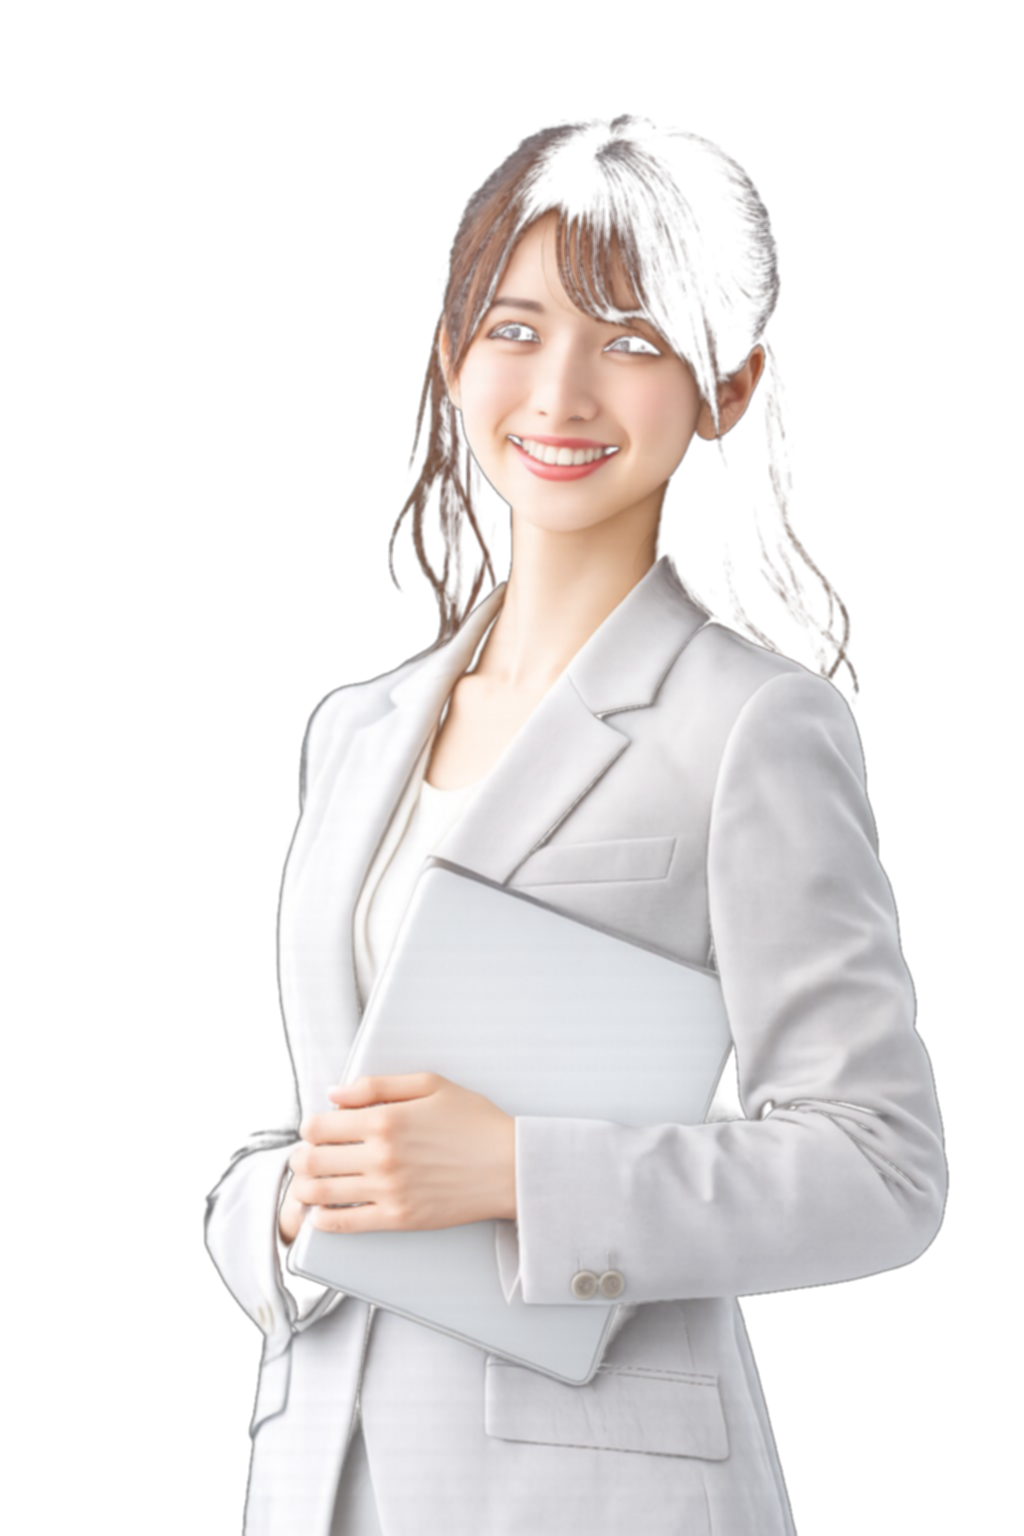
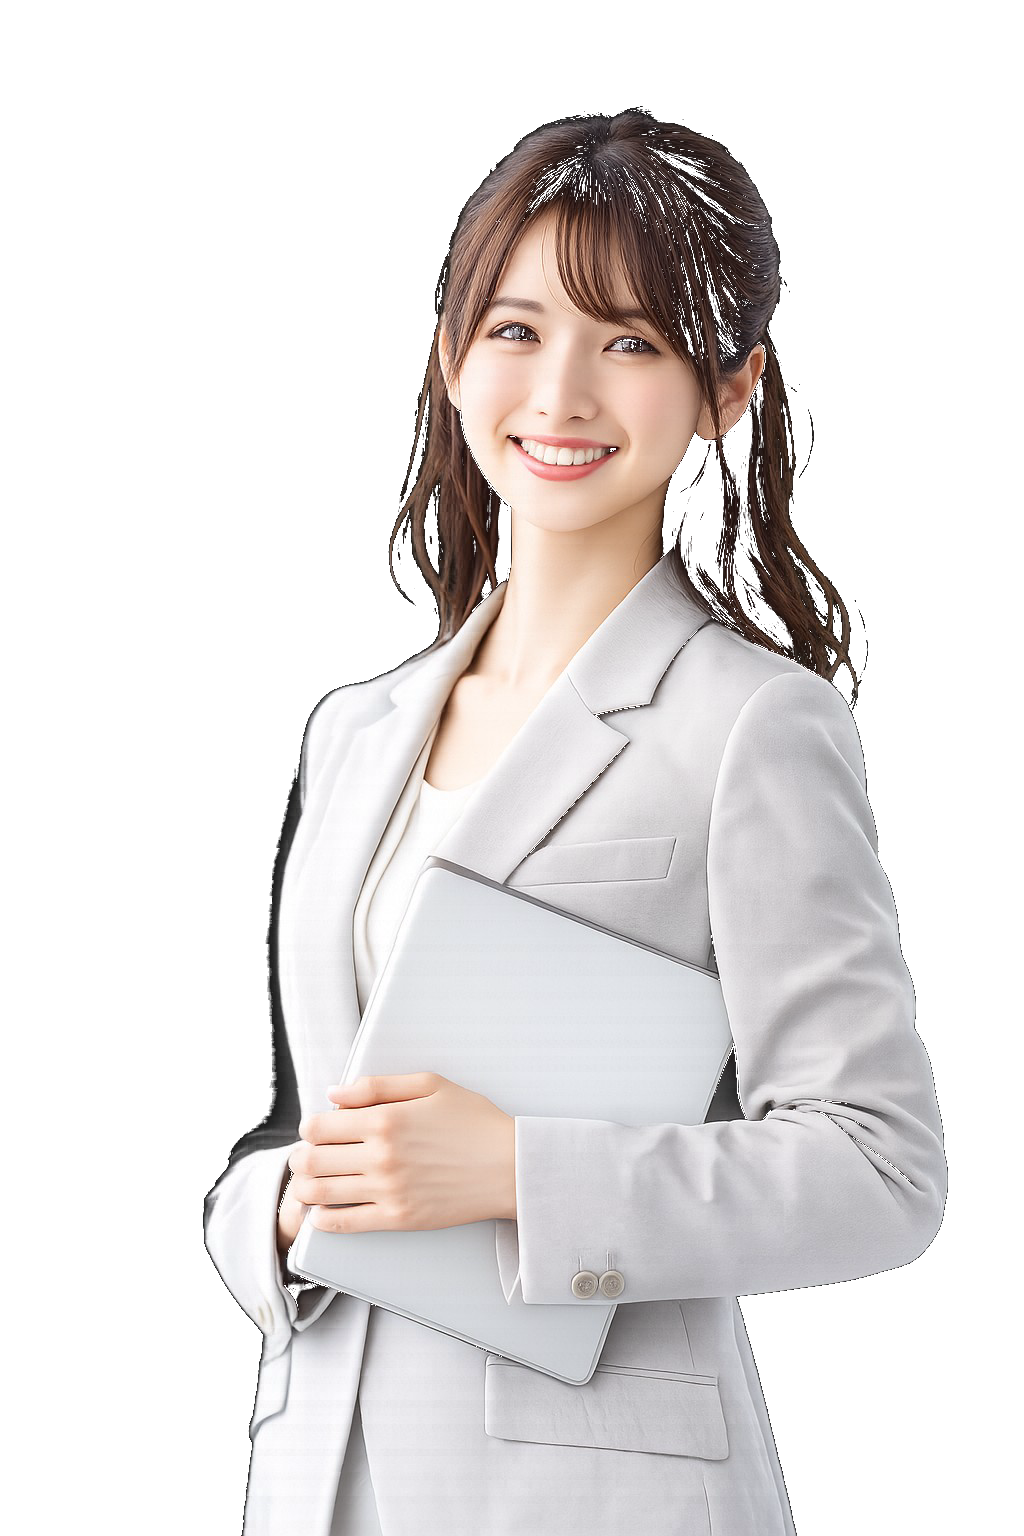
fix: bg removal threshold=22 (keep face intact) + mobile woman fully opaque, pushed right edge

diff --git a/app/lp.css b/app/lp.css
@@ -675,30 +675,30 @@ h2.section-title { font-size: 36px; font-weight: 900; letter-spacing: -.01em; li
   /* スマホでは女性をテキストの背景に薄く配置（ダッシュボードは隠す） */
   .hero-right { display: none; }
   .hero-left { position: relative; z-index: 2; }
-  /* 女性を hero-layout 全体の右側背景として絶対配置 */
+  /* 女性は右端に押し出し、テキストに被らない位置で完全不透明表示 */
   .hero-layout::before {
     content: "";
     position: absolute;
-    right: -15%;
+    right: -40%;
     top: 50%;
     transform: translateY(-50%);
     width: 75%;
     height: 100%;
     background: url('/hero-woman.png') no-repeat center right / contain;
-    opacity: 0.65;
+    opacity: 1;
     z-index: 0;
     pointer-events: none;
   }
-  /* テキストを見やすくするための薄い白フェード（女性の上に重ねる） */
+  /* テキストの読みやすさ確保: 白からのフェード（女性の頭〜上半身の前を半透明白に） */
   .hero-layout::after {
     content: "";
     position: absolute;
     inset: 0;
-    background: linear-gradient(90deg, rgba(255,255,255,0.85) 0%, rgba(255,255,255,0.5) 40%, rgba(255,255,255,0) 70%);
+    background: linear-gradient(90deg, var(--hero-bg, #eff6ff) 0%, var(--hero-bg, #eff6ff) 35%, rgba(239,246,254,0.95) 50%, rgba(239,246,254,0.6) 70%, rgba(239,246,254,0) 100%);
     z-index: 1;
     pointer-events: none;
   }
-  .hero-left { z-index: 2 !important; }
+  .hero-left { z-index: 2 !important; position: relative; }
   .why-split { grid-template-columns: 1fr; gap: 32px; }
   .why-left { position: static; }
   .why-mobile-img { display: none; }
@@ -745,9 +745,9 @@ h2.section-title { font-size: 36px; font-weight: 900; letter-spacing: -.01em; li
   .hero-sub { font-size: 13.5px; }
   .hero-feats { flex-direction: column; gap: 8px; }
   .hero-layout::before {
-    opacity: 0.55;
-    right: -30%;
-    width: 105%;
+    opacity: 1;
+    right: -55%;
+    width: 110%;
   }
   .scs-hero-seal { flex-direction: row; gap: 10px; padding: 10px 12px; margin-bottom: 14px; }
   .scs-seal-ring { width: 52px; height: 52px; }
